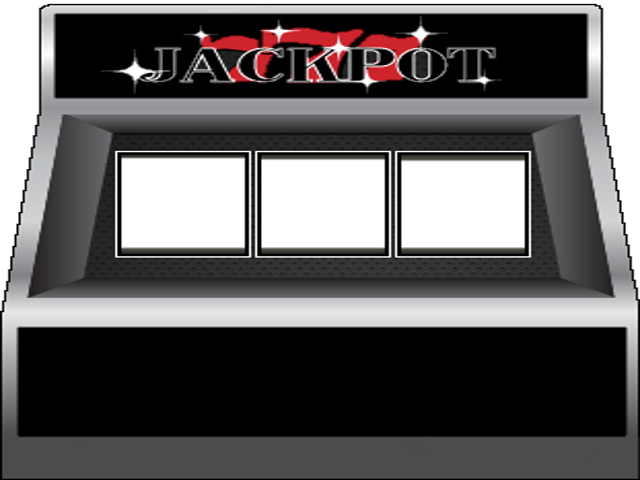
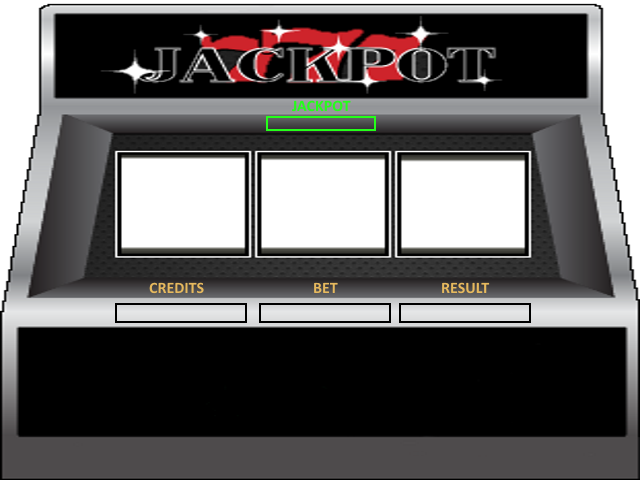
Fixed slot machine image and positions of numbers

Changed region(s): [[0.1875, 0.5625, 0.8438, 0.6875], [0.4062, 0.1875, 0.5938, 0.2812]]

diff --git a/Scripts/scenes/slotmachine.js b/Scripts/scenes/slotmachine.js
@@ -29,35 +29,35 @@ var scenes;
             this._backgroundImage = new createjs.Bitmap(assets.getResult("SlotMachine"));
             this.addChild(this._backgroundImage);
             // add Bet1Button to the scene
-            this._bet1Button = new objects.Button("Bet1Button", 168, 382, false);
+            this._bet1Button = new objects.Button("Bet1Button", 100, 347, false);
             this.addChild(this._bet1Button);
             this._bet1Button.on("click", this._bet1ButtonClick, this);
             // add Bet10Button to the scene
-            this._bet10Button = new objects.Button("Bet10Button", 240, 382, false);
+            this._bet10Button = new objects.Button("Bet10Button", 200, 347, false);
             this.addChild(this._bet10Button);
             this._bet10Button.on("click", this._bet10ButtonClick, this);
             // add Bet100Button to the scene
-            this._bet100Button = new objects.Button("Bet100Button", 312, 382, false);
+            this._bet100Button = new objects.Button("Bet100Button", 300, 347, false);
             this.addChild(this._bet100Button);
             this._bet100Button.on("click", this._bet100ButtonClick, this);
             // add SpinButton to the scene
-            this._spinButton = new objects.Button("SpinButton", 402, 382, false);
+            this._spinButton = new objects.Button("SpinButton", 450, 347, false);
             this.addChild(this._spinButton);
             this._spinButton.on("click", this._spinButtonClick, this);
             // add JackPot Text to the scene
-            this._jackpotText = new objects.Label(this.jackpot.toString(), "14px Consolas", "#ff0000", 353, 107, false);
+            this._jackpotText = new objects.Label(this.jackpot.toString(), "14px Consolas", "#ff0000", 370, 115, false);
             this._jackpotText.textAlign = "right";
             this.addChild(this._jackpotText);
             // add Credits Text to the scene
-            this._creditsText = new objects.Label(this.playerMoney.toString(), "14px Consolas", "#ff0000", 254, 303, false);
+            this._creditsText = new objects.Label(this.playerMoney.toString(), "16px Consolas", "#ff0000", 240, 305, false);
             this._creditsText.textAlign = "right";
             this.addChild(this._creditsText);
             // add Bet Text to the scene
-            this._betText = new objects.Label(this.playerBet.toString(), "14px Consolas", "#ff0000", 351, 303, false);
+            this._betText = new objects.Label(this.playerBet.toString(), "16px Consolas", "#ff0000", 385, 305, false);
             this._betText.textAlign = "right";
             this.addChild(this._betText);
             // add Result Text to the scene
-            this._resultText = new objects.Label(this.winnings.toString(), "14px Consolas", "#ff0000", 450, 303, false);
+            this._resultText = new objects.Label(this.winnings.toString(), "16px Consolas", "#ff0000", 525, 305, false);
             this._resultText.textAlign = "right";
             this.addChild(this._resultText);
             // Initialize Array of Bitmaps 
@@ -244,7 +244,7 @@ var scenes;
             }
         };
         return SlotMachine;
-    }(objects.Scene));
+    })(objects.Scene);
     scenes.SlotMachine = SlotMachine;
 })(scenes || (scenes = {}));
 //# sourceMappingURL=slotmachine.js.map

diff --git a/Scripts/scenes/slotmachine.ts b/Scripts/scenes/slotmachine.ts
@@ -42,22 +42,22 @@ module scenes {
             this.addChild(this._backgroundImage);
             
             // add Bet1Button to the scene
-            this._bet1Button = new objects.Button("Bet1Button", 168, 382, false);
+            this._bet1Button = new objects.Button("Bet1Button", 100, 347, false);
             this.addChild(this._bet1Button);
             this._bet1Button.on("click", this._bet1ButtonClick, this); 
             
             // add Bet10Button to the scene
-            this._bet10Button = new objects.Button("Bet10Button", 240, 382, false);
+            this._bet10Button = new objects.Button("Bet10Button", 200, 347, false);
             this.addChild(this._bet10Button);
             this._bet10Button.on("click", this._bet10ButtonClick, this); 
             
             // add Bet100Button to the scene
-            this._bet100Button = new objects.Button("Bet100Button", 312, 382, false);
+            this._bet100Button = new objects.Button("Bet100Button", 300, 347, false);
             this.addChild(this._bet100Button);
             this._bet100Button.on("click", this._bet100ButtonClick, this); 
             
             // add SpinButton to the scene
-            this._spinButton = new objects.Button("SpinButton", 402, 382, false);
+            this._spinButton = new objects.Button("SpinButton", 450, 347, false);
             this.addChild(this._spinButton);
             this._spinButton.on("click", this._spinButtonClick, this); 
         
@@ -66,34 +66,34 @@ module scenes {
                 this.jackpot.toString(),
                 "14px Consolas",
                 "#ff0000",
-                353, 107, false);
+                370, 115, false);
             this._jackpotText.textAlign = "right";
             this.addChild(this._jackpotText);
         
             // add Credits Text to the scene
             this._creditsText = new objects.Label(
                 this.playerMoney.toString(),
-                "14px Consolas",
+                "16px Consolas",
                 "#ff0000",
-                254, 303, false);
+                240, 305, false);
             this._creditsText.textAlign = "right";
             this.addChild(this._creditsText);
             
             // add Bet Text to the scene
             this._betText = new objects.Label(
                 this.playerBet.toString(),
-                "14px Consolas",
+                "16px Consolas",
                 "#ff0000",
-                351, 303, false);
+                385, 305, false);
             this._betText.textAlign = "right";
             this.addChild(this._betText);
             
             // add Result Text to the scene
             this._resultText = new objects.Label(
                 this.winnings.toString(),
-                "14px Consolas",
+                "16px Consolas",
                 "#ff0000",
-                450, 303, false);
+                525, 305, false);
             this._resultText.textAlign = "right";
             this.addChild(this._resultText);
         

diff --git a/Scripts/core/game.js b/Scripts/core/game.js
@@ -19,16 +19,16 @@ var assetData = [
     { id: "Bet1Button", src: "../../Assets/images/Bet1Button.png" },
     { id: "Bet10Button", src: "../../Assets/images/Bet10Button.png" },
     { id: "Bet100Button", src: "../../Assets/images/Bet100Button.png" },
-    { id: "SpinButton", src: "../../Assets/images/SpinButton.png" },
+    { id: "SpinButton", src: "../../Assets/images/spinButton.png" },
     { id: "BlackBackground", src: "../../Assets/images/BlackBackground.png" },
     { id: "WhiteBackground", src: "../../Assets/images/WhiteBackground.png" },
-    { id: "Blank", src: "../../Assets/images/Blank.png" },
-    { id: "Grapes", src: "../../Assets/images/Grapes.png" },
-    { id: "Banana", src: "../../Assets/images/Banana.png" },
+    { id: "Lemon", src: "../../Assets/images/Lemon.png" },
+    { id: "Grape", src: "../../Assets/images/Grape.png" },
+    { id: "Watermelon", src: "../../Assets/images/Watermelon.png" },
     { id: "Cherry", src: "../../Assets/images/Cherry.png" },
     { id: "Orange", src: "../../Assets/images/Orange.png" },
-    { id: "Bar", src: "../../Assets/images/Bar.png" },
-    { id: "Bell", src: "../../Assets/images/Bell.png" },
+    { id: "Clover", src: "../../Assets/images/Clover.png" },
+    { id: "Horseshoe", src: "../../Assets/images/Horseshoe.png" },
     { id: "Seven", src: "../../Assets/images/Seven.png" }
 ];
 function preload() {

diff --git a/Scripts/scenes/menu.js b/Scripts/scenes/menu.js
@@ -16,7 +16,7 @@ var scenes;
         // Start Method
         Menu.prototype.start = function () {
             // add the WELCOME Label to the MENU scene
-            this._welcomeLabel = new objects.Label("SLOT MACHINE", "60px Consolas", "#000000", config.Screen.CENTER_X, config.Screen.CENTER_Y, true);
+            this._welcomeLabel = new objects.Label("SLOT MACHINE GAME...", "40px Consolas", "#000000", config.Screen.CENTER_X, config.Screen.CENTER_Y, true);
             this.addChild(this._welcomeLabel);
             // add the START button to the MENU scene
             this._startButton = new objects.Button("StartButton", config.Screen.CENTER_X, config.Screen.CENTER_Y + 80, true);
@@ -44,7 +44,7 @@ var scenes;
             });
         };
         return Menu;
-    }(objects.Scene));
+    })(objects.Scene);
     scenes.Menu = Menu;
 })(scenes || (scenes = {}));
 //# sourceMappingURL=menu.js.map

diff --git a/Scripts/config/config.js b/Scripts/config/config.js
@@ -8,7 +8,7 @@ var config;
         Scene.SLOT_MACHINE = 1;
         Scene.GAME_OVER = 2;
         return Scene;
-    }());
+    })();
     config.Scene = Scene;
     // Screen Constants
     var Screen = (function () {
@@ -19,7 +19,7 @@ var config;
         Screen.CENTER_X = 320;
         Screen.CENTER_Y = 240;
         return Screen;
-    }());
+    })();
     config.Screen = Screen;
     // Game Constants
     var Game = (function () {
@@ -27,7 +27,7 @@ var config;
         }
         Game.FPS = 60;
         return Game;
-    }());
+    })();
     config.Game = Game;
 })(config || (config = {}));
 //# sourceMappingURL=config.js.map

diff --git a/Scripts/core/game.ts b/Scripts/core/game.ts
@@ -23,7 +23,7 @@ var assetData:objects.Asset[] = [
     {id: "Bet1Button", src:"../../Assets/images/Bet1Button.png"},
     {id: "Bet10Button", src:"../../Assets/images/Bet10Button.png"},
     {id: "Bet100Button", src:"../../Assets/images/Bet100Button.png"},
-    {id: "SpinButton", src:"../../Assets/images/SpinButton.png"},
+    {id: "SpinButton", src:"../../Assets/images/spinButton.png"},
     {id: "BlackBackground", src:"../../Assets/images/BlackBackground.png"},
     {id: "WhiteBackground", src:"../../Assets/images/WhiteBackground.png"},
     {id: "Lemon", src:"../../Assets/images/Lemon.png"},

diff --git a/Scripts/scenes/menu.ts b/Scripts/scenes/menu.ts
@@ -19,7 +19,7 @@ module scenes {
             // add the WELCOME Label to the MENU scene
             this._welcomeLabel = new objects.Label(
                 "SLOT MACHINE GAME...",
-                "60px Consolas",
+                "40px Consolas",
                 "#000000",
                 config.Screen.CENTER_X,
                 config.Screen.CENTER_Y, true);

diff --git a/Scripts/objects/scene.js b/Scripts/objects/scene.js
@@ -35,7 +35,7 @@ var objects;
             createjs.Tween.get(this._blackBackground).to({ alpha: 1 }, transitionTime, createjs.Ease.getPowInOut(2)).call(callback);
         };
         return Scene;
-    }(createjs.Container));
+    })(createjs.Container);
     objects.Scene = Scene;
 })(objects || (objects = {}));
 //# sourceMappingURL=scene.js.map

diff --git a/Scripts/objects/button.js b/Scripts/objects/button.js
@@ -32,7 +32,7 @@ var objects;
             event.currentTarget.alpha = 1.0;
         };
         return Button;
-    }(createjs.Bitmap));
+    })(createjs.Bitmap);
     objects.Button = Button;
 })(objects || (objects = {}));
 //# sourceMappingURL=button.js.map

diff --git a/Scripts/scenes/gameover.js b/Scripts/scenes/gameover.js
@@ -37,7 +37,7 @@ var scenes;
             changeScene();
         };
         return GameOver;
-    }(objects.Scene));
+    })(objects.Scene);
     scenes.GameOver = GameOver;
 })(scenes || (scenes = {}));
 //# sourceMappingURL=gameover.js.map

diff --git a/Scripts/objects/label.js b/Scripts/objects/label.js
@@ -19,7 +19,7 @@ var objects;
             this.y = y;
         }
         return Label;
-    }(createjs.Text));
+    })(createjs.Text);
     objects.Label = Label;
 })(objects || (objects = {}));
 //# sourceMappingURL=label.js.map

diff --git a/Scripts/objects/asset.js b/Scripts/objects/asset.js
@@ -8,7 +8,7 @@ var objects;
             this.src = src;
         }
         return Asset;
-    }());
+    })();
     objects.Asset = Asset;
 })(objects || (objects = {}));
 //# sourceMappingURL=asset.js.map
